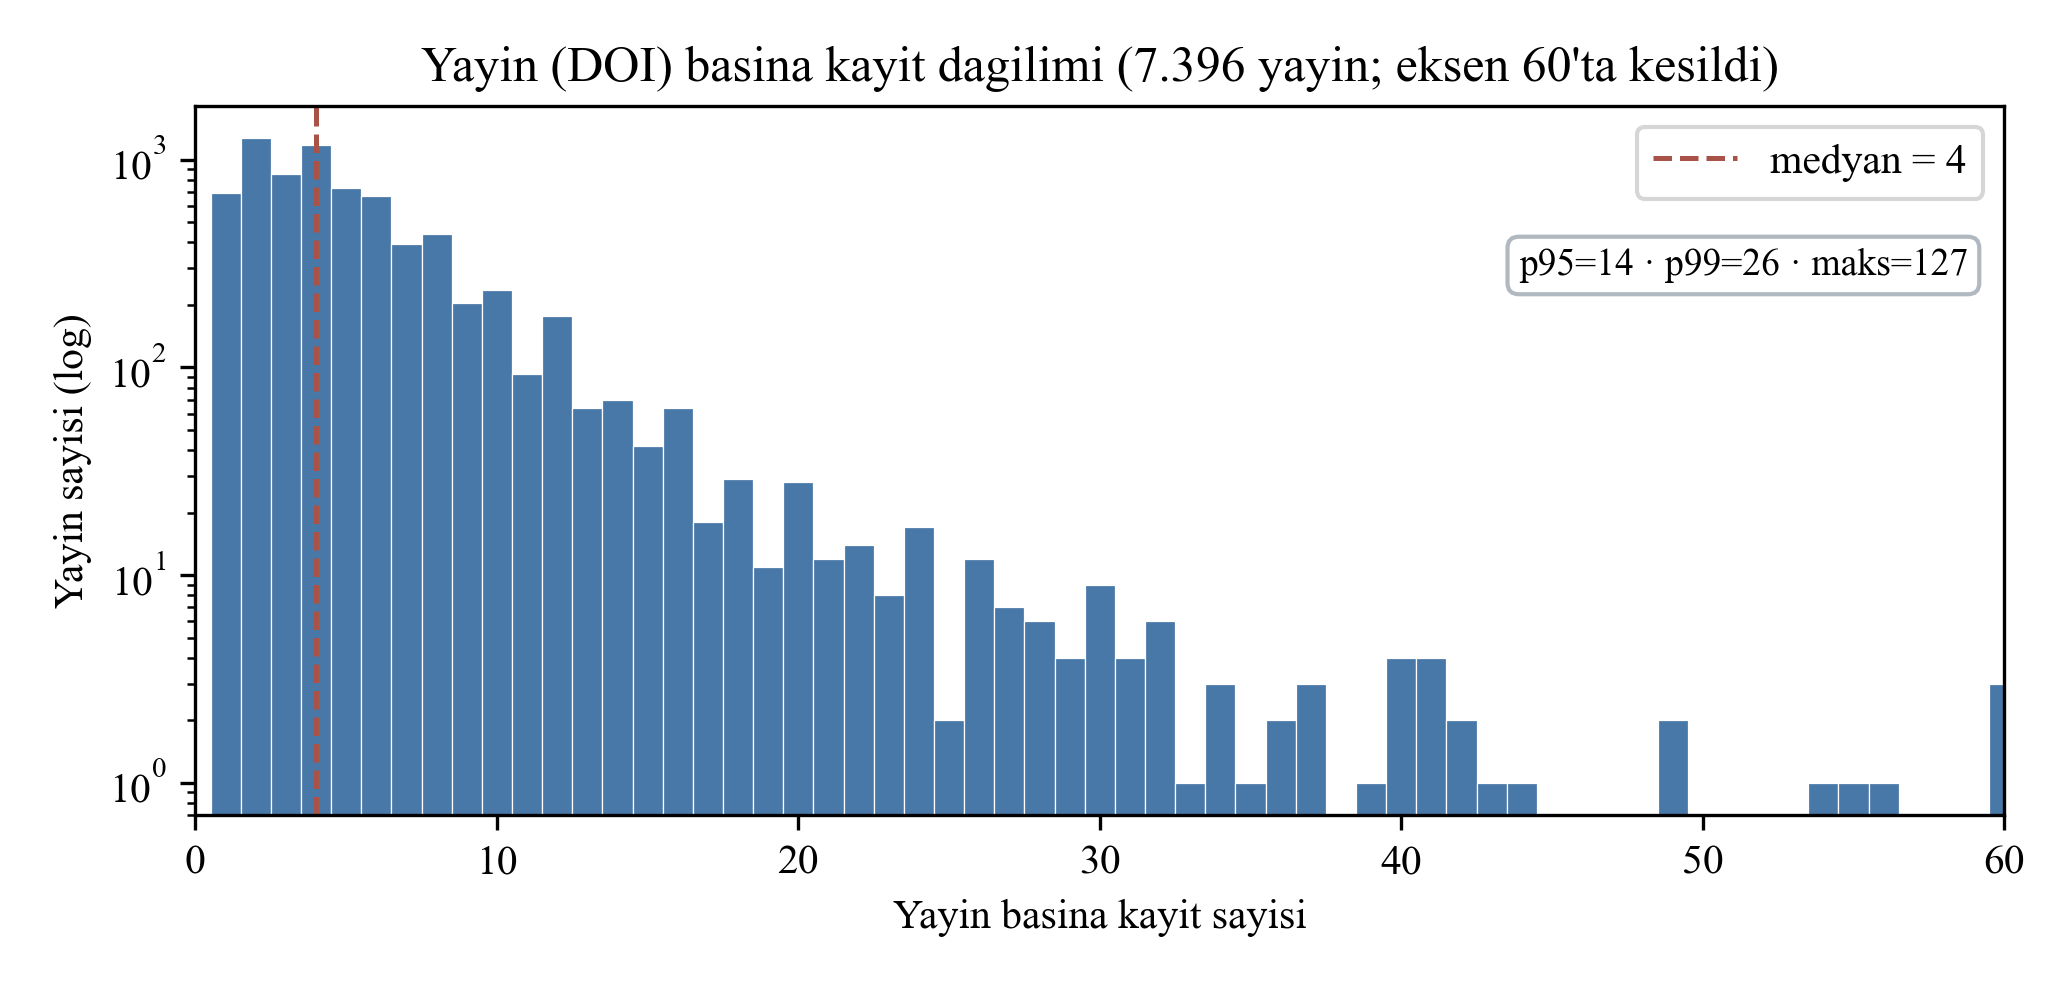
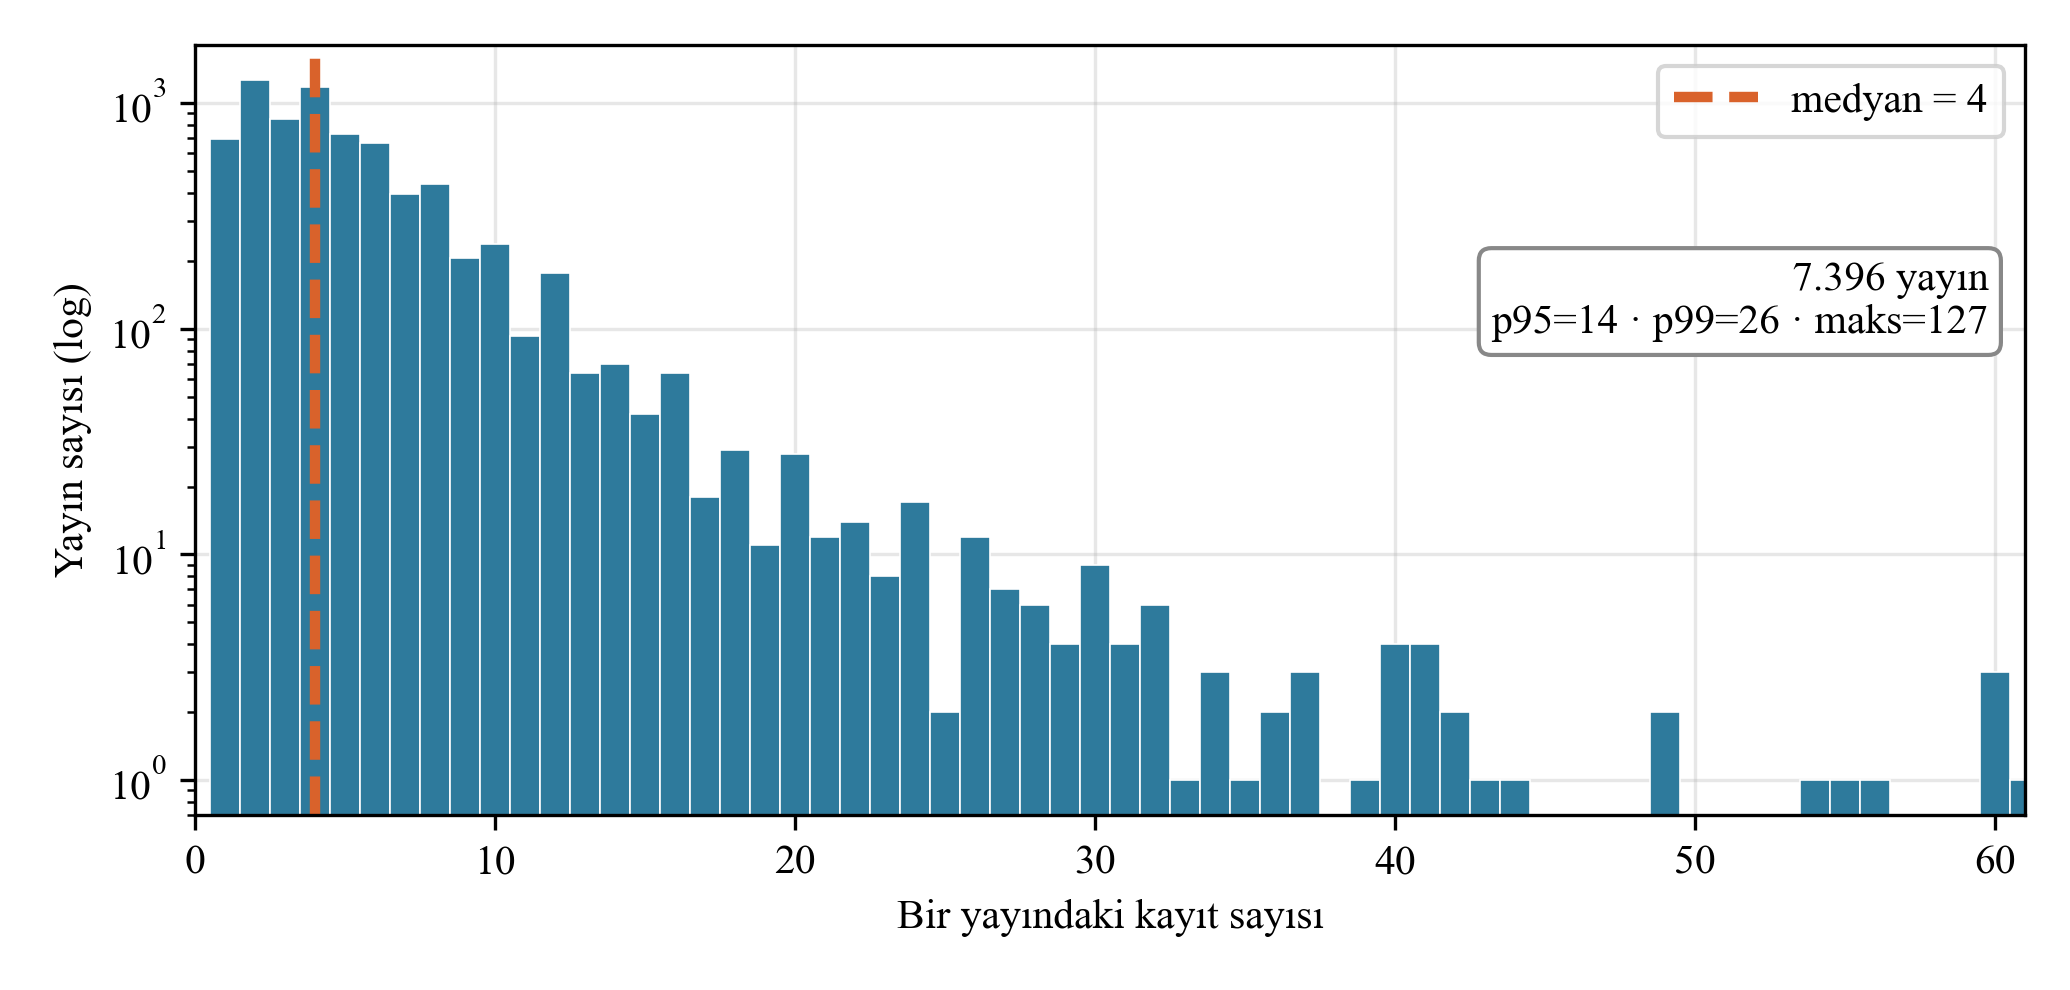
thesis_figures: 9 veri sekli tezdeki ozgun tasarimlara sadik hale getirildi (Turkce diyakritikli etiketler, ortalama/medyan referans cizgileri, lejantlar, deger etiketleri, ozgun renk kimligi) — TNR yazi tipiyle ve tez yuvasi kanvas boyutlariyla

diff --git a/scripts/thesis_figures.py b/scripts/thesis_figures.py
@@ -61,6 +61,7 @@ def main():
     outdir = outputs / "figures"
     outdir.mkdir(parents=True, exist_ok=True)
     made, skipped = [], []
+    MAVI, TURUNCU, YESIL = "#2E7A9C", "#D9622B", "#17A589"
 
     # ---- islenmis veri gerektiren sekiller (4.1-4.6) ----
     mr_path = proc / "model_ready_dataset.csv"
@@ -68,94 +69,111 @@ def main():
         M = pd.read_csv(mr_path, low_memory=False)
         pce = M[tgt].astype(float)
 
-        # Sekil 4.1 — PCE dagilimi
+        # Sekil 4.1 — PCE dagilimi (ortalama/medyan cizgili, tez ozgun tasarimi)
         fig, ax = plt.subplots(figsize=(7.0, 4.5))
-        ax.hist(pce, bins=70, color="#4878a8", edgecolor="white", linewidth=0.3)
-        ax.set_xlabel("PCE (%)"); ax.set_ylabel("Kayit sayisi")
-        ax.set_title(f"PCE dagilimi (n = {_tr(len(M))})")
+        ax.hist(pce, bins=np.arange(0, 36, 0.5), color=MAVI,
+                edgecolor="white", linewidth=0.4)
+        ax.axvline(pce.mean(), color=TURUNCU, linestyle="--", linewidth=2.2,
+                   label=f"Ortalama = {pce.mean():.2f}")
+        ax.axvline(pce.median(), color="black", linestyle=":", linewidth=2.2,
+                   label=f"Medyan = {pce.median():.2f}")
+        ax.set_xlabel("PCE (%)"); ax.set_ylabel("H\u00fccre say\u0131s\u0131")
+        ax.legend()
         _save(fig, outdir, "sekil_4_01_pce_dagilimi.png", made)
 
-        # Sekil 4.2 — A-site katyon oranlari
-        fig, axes = plt.subplots(1, 3, figsize=(10.31, 2.77), sharey=True)
-        for ax, col, name in zip(axes, ["A_FA", "A_MA", "A_Cs"], ["FA", "MA", "Cs"]):
-            ax.hist(M[col], bins=40, color="#4878a8", edgecolor="white", linewidth=0.3)
-            ax.set_title(f"A-site {name} orani"); ax.set_xlabel("oran")
+        # Sekil 4.2 — A-site katyon oranlari (FA/MA/Cs)
+        adlar = [("A_FA", "FA (Formamidinyum)"), ("A_MA", "MA (Metilamonyum)"),
+                 ("A_Cs", "Cs (Sezyum)")]
+        fig, axes = plt.subplots(1, 3, figsize=(10.31, 2.77))
+        for ax, (col, baslik) in zip(axes, adlar):
+            ax.hist(M[col], bins=25, color=MAVI, edgecolor="white", linewidth=0.4)
+            ax.set_title(baslik); ax.set_xlabel("A-site oran\u0131")
             ax.set_yscale("log")
-        axes[0].set_ylabel("Kayit sayisi (log)")
+            ax.grid(alpha=0.3); ax.set_axisbelow(True)
+        axes[0].set_ylabel("Kay\u0131t say\u0131s\u0131 (log)")
         _save(fig, outdir, "sekil_4_02_asite_oranlari.png", made)
 
-        # Sekil 4.3 — band gap (yalnizca gozlemli) + band gap'e gore ortalama PCE
+        # Sekil 4.3 — band gap dagilimi (doldurmasiz) + band gap'e gore ortalama PCE
         obs = M[M["band_gap_missing"] == 0]
         bg = obs["band_gap"].astype(float)
         fig, axes = plt.subplots(1, 2, figsize=(10.366667, 3.07))
-        axes[0].hist(bg, bins=60, range=(1.2, 2.4), color="#4878a8",
-                     edgecolor="white", linewidth=0.3)
-        axes[0].set_xlabel("Band gap (eV)"); axes[0].set_ylabel("Kayit sayisi")
-        axes[0].set_title(f"Band gap dagilimi (gozlemli, n = {_tr(len(obs))})")
-        bins = np.arange(1.2, 2.4 + 1e-9, 0.05)
+        axes[0].hist(bg, bins=np.arange(1.0, 2.5 + 1e-9, 0.05), color=MAVI,
+                     edgecolor="white", linewidth=0.4)
+        axes[0].set_xlabel("Band gap (eV)")
+        axes[0].set_ylabel("Kay\u0131t say\u0131s\u0131")
+        axes[0].set_title(f"Band gap da\u011f\u0131l\u0131m\u0131 (doldurmas\u0131z, n={len(obs)})")
+        axes[0].set_xlim(1.0, 2.5)
+        bins = np.arange(1.1, 2.5 + 1e-9, 0.1)
         grp = obs.groupby(pd.cut(bg, bins), observed=False)[tgt].agg(["mean", "count"])
-        centers = [iv.mid for iv in grp.index]
-        mask = grp["count"] >= 30      # seyrek kutulari gizle (gurultulu ortalama)
-        axes[1].plot(np.array(centers)[mask], grp["mean"][mask], "o-", color="#a85248")
-        axes[1].set_xlabel("Band gap (eV)"); axes[1].set_ylabel("Ortalama PCE (%)")
-        axes[1].set_title("Band gap'e gore ortalama PCE (kutu n >= 30)")
+        centers = np.array([iv.mid for iv in grp.index])
+        mask = (grp["count"] >= 30).values
+        axes[1].plot(centers[mask], grp["mean"][mask], "o-", color=TURUNCU,
+                     linewidth=3, markersize=9)
+        axes[1].set_xlabel("Band gap (eV)")
+        axes[1].set_ylabel("Ortalama PCE (%)")
+        axes[1].set_title("Band gap'e g\u00f6re ortalama PCE")
+        axes[1].set_xlim(1.0, 2.5)
         _save(fig, outdir, "sekil_4_03_bandgap.png", made)
 
-        # Sekil 4.5 — DOI basina kayit sayisi (tez basligiyla uyumlu: yalnizca
-        # DOI'si bilinen yayinlar; x-ekseni 60 kayitta kesilir, kuyruk maks 127).
-        # DOI'siz kayitlarin tek yapay grupta toplandigi kurulum (7.397 grup,
-        # en buyuk grup 201) yalnizca bolme mantigini ilgilendirir; tez metninde
-        # ayrica raporlanir.
+        # Sekil 4.5 — yayin (DOI) basina kayit sayisi
         known = M[M[gcol].notna()]
         sizes = known.groupby(known[gcol].astype(str)).size()
         p95, p99 = np.percentile(sizes, [95, 99])
         fig, ax = plt.subplots(figsize=(6.9, 3.3))
         ax.hist(sizes, bins=np.arange(0.5, sizes.max() + 1.5, 1),
-                color="#4878a8", edgecolor="white", linewidth=0.3)
+                color=MAVI, edgecolor="white", linewidth=0.4)
         ax.set_yscale("log")
-        ax.set_xlim(0, 60)
-        ax.axvline(sizes.median(), color="#a85248", linestyle="--", linewidth=1.2,
+        ax.set_xlim(0, 61)
+        ax.axvline(sizes.median(), color=TURUNCU, linestyle="--", linewidth=2.5,
                    label=f"medyan = {sizes.median():.0f}")
-        ax.legend()
-        ax.text(0.98, 0.80, f"p95={p95:.0f} · p99={p99:.0f} · maks={sizes.max()}",
-                transform=ax.transAxes, ha="right", va="top", fontsize=9,
-                bbox=dict(boxstyle="round", facecolor="white", edgecolor="#b0b8c0"))
-        ax.set_xlabel("Yayin basina kayit sayisi"); ax.set_ylabel("Yayin sayisi (log)")
-        ax.set_title(f"Yayin (DOI) basina kayit dagilimi "
-                     f"({_tr(sizes.shape[0])} yayin; eksen 60'ta kesildi)")
+        ax.legend(loc="upper right")
+        kutu = f"{_tr(sizes.shape[0])} yay\u0131n\np95={p95:.0f} \u00b7 p99={p99:.0f} \u00b7 maks={sizes.max()}"
+        ax.text(0.98, 0.72, kutu, transform=ax.transAxes, ha="right", va="top",
+                bbox=dict(boxstyle="round", facecolor="white", edgecolor="#888888"))
+        ax.set_xlabel("Bir yay\u0131ndaki kay\u0131t say\u0131s\u0131")
+        ax.set_ylabel("Yay\u0131n say\u0131s\u0131 (log)")
+        ax.grid(alpha=0.3); ax.set_axisbelow(True)
         _save(fig, outdir, "sekil_4_05_doi_dagilimi.png", made)
 
         # Sekil 4.6 — medyanla doldurulan degiskenlerin oranlari
-        flags = [("band_gap_missing", "Band gap"),
-                 ("anneal_temp_missing", "Tavlama sicakligi"),
-                 ("anneal_time_missing", "Tavlama suresi")]
-        vals = [100 * M[c].mean() for c, _ in flags]
+        satirlar = [("band_gap_missing", "Band gap"),
+                    ("anneal_temp_missing", "Tavlama s\u0131cakl\u0131\u011f\u0131"),
+                    ("anneal_time_missing", "Tavlama s\u00fcresi")]
+        vals = [100 * M[c].mean() for c, _ in satirlar]
         fig, ax = plt.subplots(figsize=(6.37, 2.47))
-        bars = ax.barh([n for _, n in flags], vals, color="#4878a8")
+        bars = ax.barh([n for _, n in satirlar], vals, color=MAVI)
         for b, v in zip(bars, vals):
-            ax.text(v + 0.4, b.get_y() + b.get_height() / 2, f"%{v:.1f}", va="center")
-        ax.set_xlabel("Eksik (medyanla doldurulan) oran %")
-        ax.set_title("Doldurma uygulanan degiskenlerde eksiklik orani")
-        ax.set_xlim(0, max(vals) * 1.25)
+            ax.text(v + 0.5, b.get_y() + b.get_height() / 2, f"%{v:.1f}", va="center")
+        ax.set_xlabel("Doldurma (imputation) uygulanan kay\u0131t oran\u0131 (%)")
+        ax.set_xlim(0, max(vals) * 1.2)
         _save(fig, outdir, "sekil_4_06_eksik_oranlar.png", made)
     else:
         skipped += ["4.1", "4.2", "4.3", "4.5", "4.6"]
         print(f"  [atlandi] model_ready_dataset.csv yok ({mr_path}) -> once scripts/01-02")
 
-    # Sekil 4.4 — cihaz-yigini en sik kategoriler (ham etiketler icin cleaned_dataset)
+    # Sekil 4.4 — cihaz-yigini en sik kategoriler (ilk 5 + '<panel> other')
     cl_path = proc / "cleaned_dataset.csv"
     if cl_path.exists():
         C = pd.read_csv(cl_path, low_memory=False)
-        panels = [("Cell_architecture", "Mimari"),
-                  ("ETL_stack_sequence", "ETL"),
-                  ("HTL_stack_sequence", "HTL")]
+        panels = [("Cell_architecture", "H\u00fccre mimarisi", "Mimari"),
+                  ("ETL_stack_sequence", "ETL", "ETL"),
+                  ("HTL_stack_sequence", "HTL", "HTL")]
         fig, axes = plt.subplots(1, 3, figsize=(10.88, 3.07))
-        for ax, (col, name) in zip(axes, panels):
-            vc = C[col].fillna("(bos)").astype(str).value_counts().head(8)[::-1]
-            labels = [v if len(v) <= 28 else v[:25] + "..." for v in vc.index]
-            ax.barh(labels, vc.values, color="#4878a8")
-            ax.set_title(f"{name} — en sik 8 kategori")
-            ax.tick_params(axis="y", labelsize=8)
+        for ax, (col, baslik, kisa) in zip(axes, panels):
+            vc = C[col].fillna("Unknown").astype(str).value_counts()
+            top = vc.head(5)
+            other = int(vc.iloc[5:].sum())
+            etiket = [t.replace("-", " ").replace(":", " ") for t in top.index]
+            deger = list(top.values)
+            if len(vc) > 6 and other > 0:
+                etiket.append(f"{kisa} other"); deger.append(other)
+            elif len(vc) == 6:
+                etiket.append(vc.index[5].replace("-", " ").replace(":", " "))
+                deger.append(int(vc.iloc[5]))
+            sirali = sorted(zip(deger, etiket))
+            ax.barh([e for _, e in sirali], [v for v, _ in sirali], color=MAVI)
+            ax.set_title(baslik)
+            ax.set_xlabel("Kay\u0131t say\u0131s\u0131")
         _save(fig, outdir, "sekil_4_04_cihaz_kategorileri.png", made)
     else:
         skipped.append("4.4")
@@ -163,15 +181,16 @@ def main():
 
     # ---- yalnizca commit'li outputs/ gerektiren sekiller ----
 
-    # Sekil 4.7 — GroupKFold model karsilastirmasi
+    # Sekil 4.7 — GroupKFold model karsilastirmasi (deger etiketli)
     cmp_path = outputs / "v4" / "model_comparison_groupkfold.csv"
     if cmp_path.exists():
         cmp = pd.read_csv(cmp_path).sort_values("R2_mean")
         fig, ax = plt.subplots(figsize=(7.0, 4.2))
         ax.barh(cmp["model"], cmp["R2_mean"], xerr=cmp["R2_std"],
-                color="#4878a8", capsize=3)
-        ax.set_xlabel("GroupKFold CV R² (ort. ± std)")
-        ax.set_title("Modellerin DOI-grup 5-kat CV karsilastirmasi")
+                color=MAVI, capsize=4)
+        for y, (r2, sd) in enumerate(zip(cmp["R2_mean"], cmp["R2_std"])):
+            ax.text(r2 + sd + 0.012, y, f"{r2:.3f}", va="center")
+        ax.set_xlabel("GroupKFold CV R\u00b2 (5-kat, ortalama \u00b1 std)")
         ax.set_xlim(0, 0.5)
         _save(fig, outdir, "sekil_4_07_model_karsilastirma.png", made)
     else:
@@ -183,49 +202,51 @@ def main():
         avp = pd.read_csv(avp_path)
         err = avp["Model_tahmini"] - avp["Gercek_PCE"]
         fig, ax = plt.subplots(figsize=(7.0, 4.2))
-        ax.hist(err, bins=80, color="#4878a8", edgecolor="white", linewidth=0.3)
-        ax.axvline(0, color="#a85248", linewidth=1)
-        ax.set_xlabel("Isaretli hata (tahmin − gercek, PCE puani)")
-        ax.set_ylabel("Kayit sayisi")
-        over = 100 * (err > 5).mean(); under = 100 * (err < -5).mean()
-        ax.set_title(f"Holdout isaretli hata dagilimi "
-                     f"(>+5 puan: %{over:.1f}, <−5 puan: %{under:.1f})")
+        ax.hist(err, bins=90, color=YESIL, edgecolor="white", linewidth=0.4)
+        ax.axvline(0, color="black", linewidth=1.6)
+        ax.set_xlabel("Tahmin hatas\u0131 (tahmin \u2212 ger\u00e7ek, PCE puan\u0131)")
+        ax.set_ylabel("H\u00fccre say\u0131s\u0131")
         _save(fig, outdir, "sekil_4_12_hata_dagilimi.png", made)
     else:
         skipped.append("4.12")
 
-    # Sekil 4.13 — conformal kapsama (sol) + ±yari-genislik bandi (sag)
+    # Sekil 4.13 — hedeflenen vs gozlenen kapsama (sol) + 60 orneklik aralik (sag)
     conf_path = outputs / "conformal" / "conformal_summary.csv"
     hold_path = outputs / "v4" / "best_model_holdout_predictions.csv"
     if conf_path.exists() and hold_path.exists():
         conf = pd.read_csv(conf_path)
-        marg = conf[conf["yontem"].str.startswith("Marginal")]
+        marg = conf[conf["yontem"].str.startswith("Marginal")].copy()
+        hedef = marg["hedef_kapsama"].str.replace("%", "").astype(float)
+        hw = {int(h): float(w) for h, w in zip(hedef, marg["yari_genislik_puan"])}
         fig, axes = plt.subplots(1, 2, figsize=(10.366667, 3.27))
         xs = np.arange(len(marg))
-        hedef = marg["hedef_kapsama"].str.replace("%", "").astype(float)
-        axes[0].bar(xs - 0.18, hedef, width=0.36, label="Hedef", color="#b0b8c0")
-        axes[0].bar(xs + 0.18, 100 * marg["ampirik_kapsama"], width=0.36,
-                    label="Gozlenen", color="#4878a8")
-        axes[0].set_xticks(xs, [f"%{int(h)}" for h in hedef])
-        axes[0].set_ylabel("Kapsama %"); axes[0].set_ylim(0, 100)
-        axes[0].set_title("Marginal conformal: hedef vs gozlenen kapsama")
+        etik = [("%" + str(int(h)) + " (\u00b1" + f"{hw[int(h)]:.2f}" + ")").replace(".", ",")
+                for h in hedef]
+        axes[0].bar(xs - 0.2, hedef, width=0.4, label="Hedeflenen", color=MAVI)
+        axes[0].bar(xs + 0.2, 100 * marg["ampirik_kapsama"], width=0.4,
+                    label="G\u00f6zlenen", color=TURUNCU)
+        axes[0].set_xticks(xs); axes[0].set_xticklabels(etik)
+        axes[0].set_ylabel("Kapsama (%)"); axes[0].set_ylim(60, 100)
+        axes[0].set_title("Hedeflenen vs g\u00f6zlenen kapsama")
         axes[0].legend()
-        if (hedef == 90.0).any():
-            hw90 = float(marg.loc[hedef[hedef == 90.0].index[0], "yari_genislik_puan"])
-        else:
-            hw90 = float(marg["yari_genislik_puan"].iloc[0])
+        hw90 = hw.get(90, list(hw.values())[0])
         H = pd.read_csv(hold_path)
-        axes[1].scatter(H["y_pred"], H["y_true"], s=4, alpha=0.25, color="#4878a8",
-                        edgecolors="none")
-        lim = np.array([0, 35])
-        axes[1].plot(lim, lim, color="#333333", linewidth=0.8)
-        axes[1].plot(lim, lim + hw90, "--", color="#a85248", linewidth=0.9)
-        axes[1].plot(lim, lim - hw90, "--", color="#a85248", linewidth=0.9,
-                     label=f"±{hw90:.2f} puan (%90 bandi)")
-        axes[1].set_xlabel("Tahmin (PCE)"); axes[1].set_ylabel("Gercek (PCE)")
-        axes[1].set_xlim(lim); axes[1].set_ylim(lim)
-        axes[1].set_title("Holdout: tahmin bandi (marginal %90)")
-        axes[1].legend(loc="upper left", fontsize=8)
+        rng = np.random.default_rng(42)
+        sec = H.iloc[np.sort(rng.choice(len(H), size=60, replace=False))]
+        sec = sec.sort_values("y_pred").reset_index(drop=True)
+        icinde = (sec["y_true"] - sec["y_pred"]).abs() <= hw90
+        xs2 = np.arange(len(sec))
+        band_etiket = ("\u00b1" + f"{hw90:.2f}" + " (%90)").replace(".", ",")
+        axes[1].vlines(xs2, sec["y_pred"] - hw90, sec["y_pred"] + hw90,
+                       color=MAVI, alpha=0.35, linewidth=4, label=band_etiket)
+        axes[1].scatter(xs2[icinde], sec["y_true"][icinde], s=45, color=MAVI,
+                        zorder=3, label="aral\u0131kta")
+        axes[1].scatter(xs2[~icinde], sec["y_true"][~icinde], s=60, marker="x",
+                        color=TURUNCU, linewidths=2.5, zorder=3, label="d\u0131\u015f\u0131nda")
+        axes[1].set_xlabel("Holdout \u00f6rnekleri (tahmine g\u00f6re s\u0131ral\u0131, n=60)")
+        axes[1].set_ylabel("PCE (%)")
+        axes[1].set_title("Conformal aral\u0131k ve ger\u00e7ek de\u011ferler")
+        axes[1].legend(loc="upper left")
         _save(fig, outdir, "sekil_4_13_conformal.png", made)
     else:
         skipped.append("4.13")
